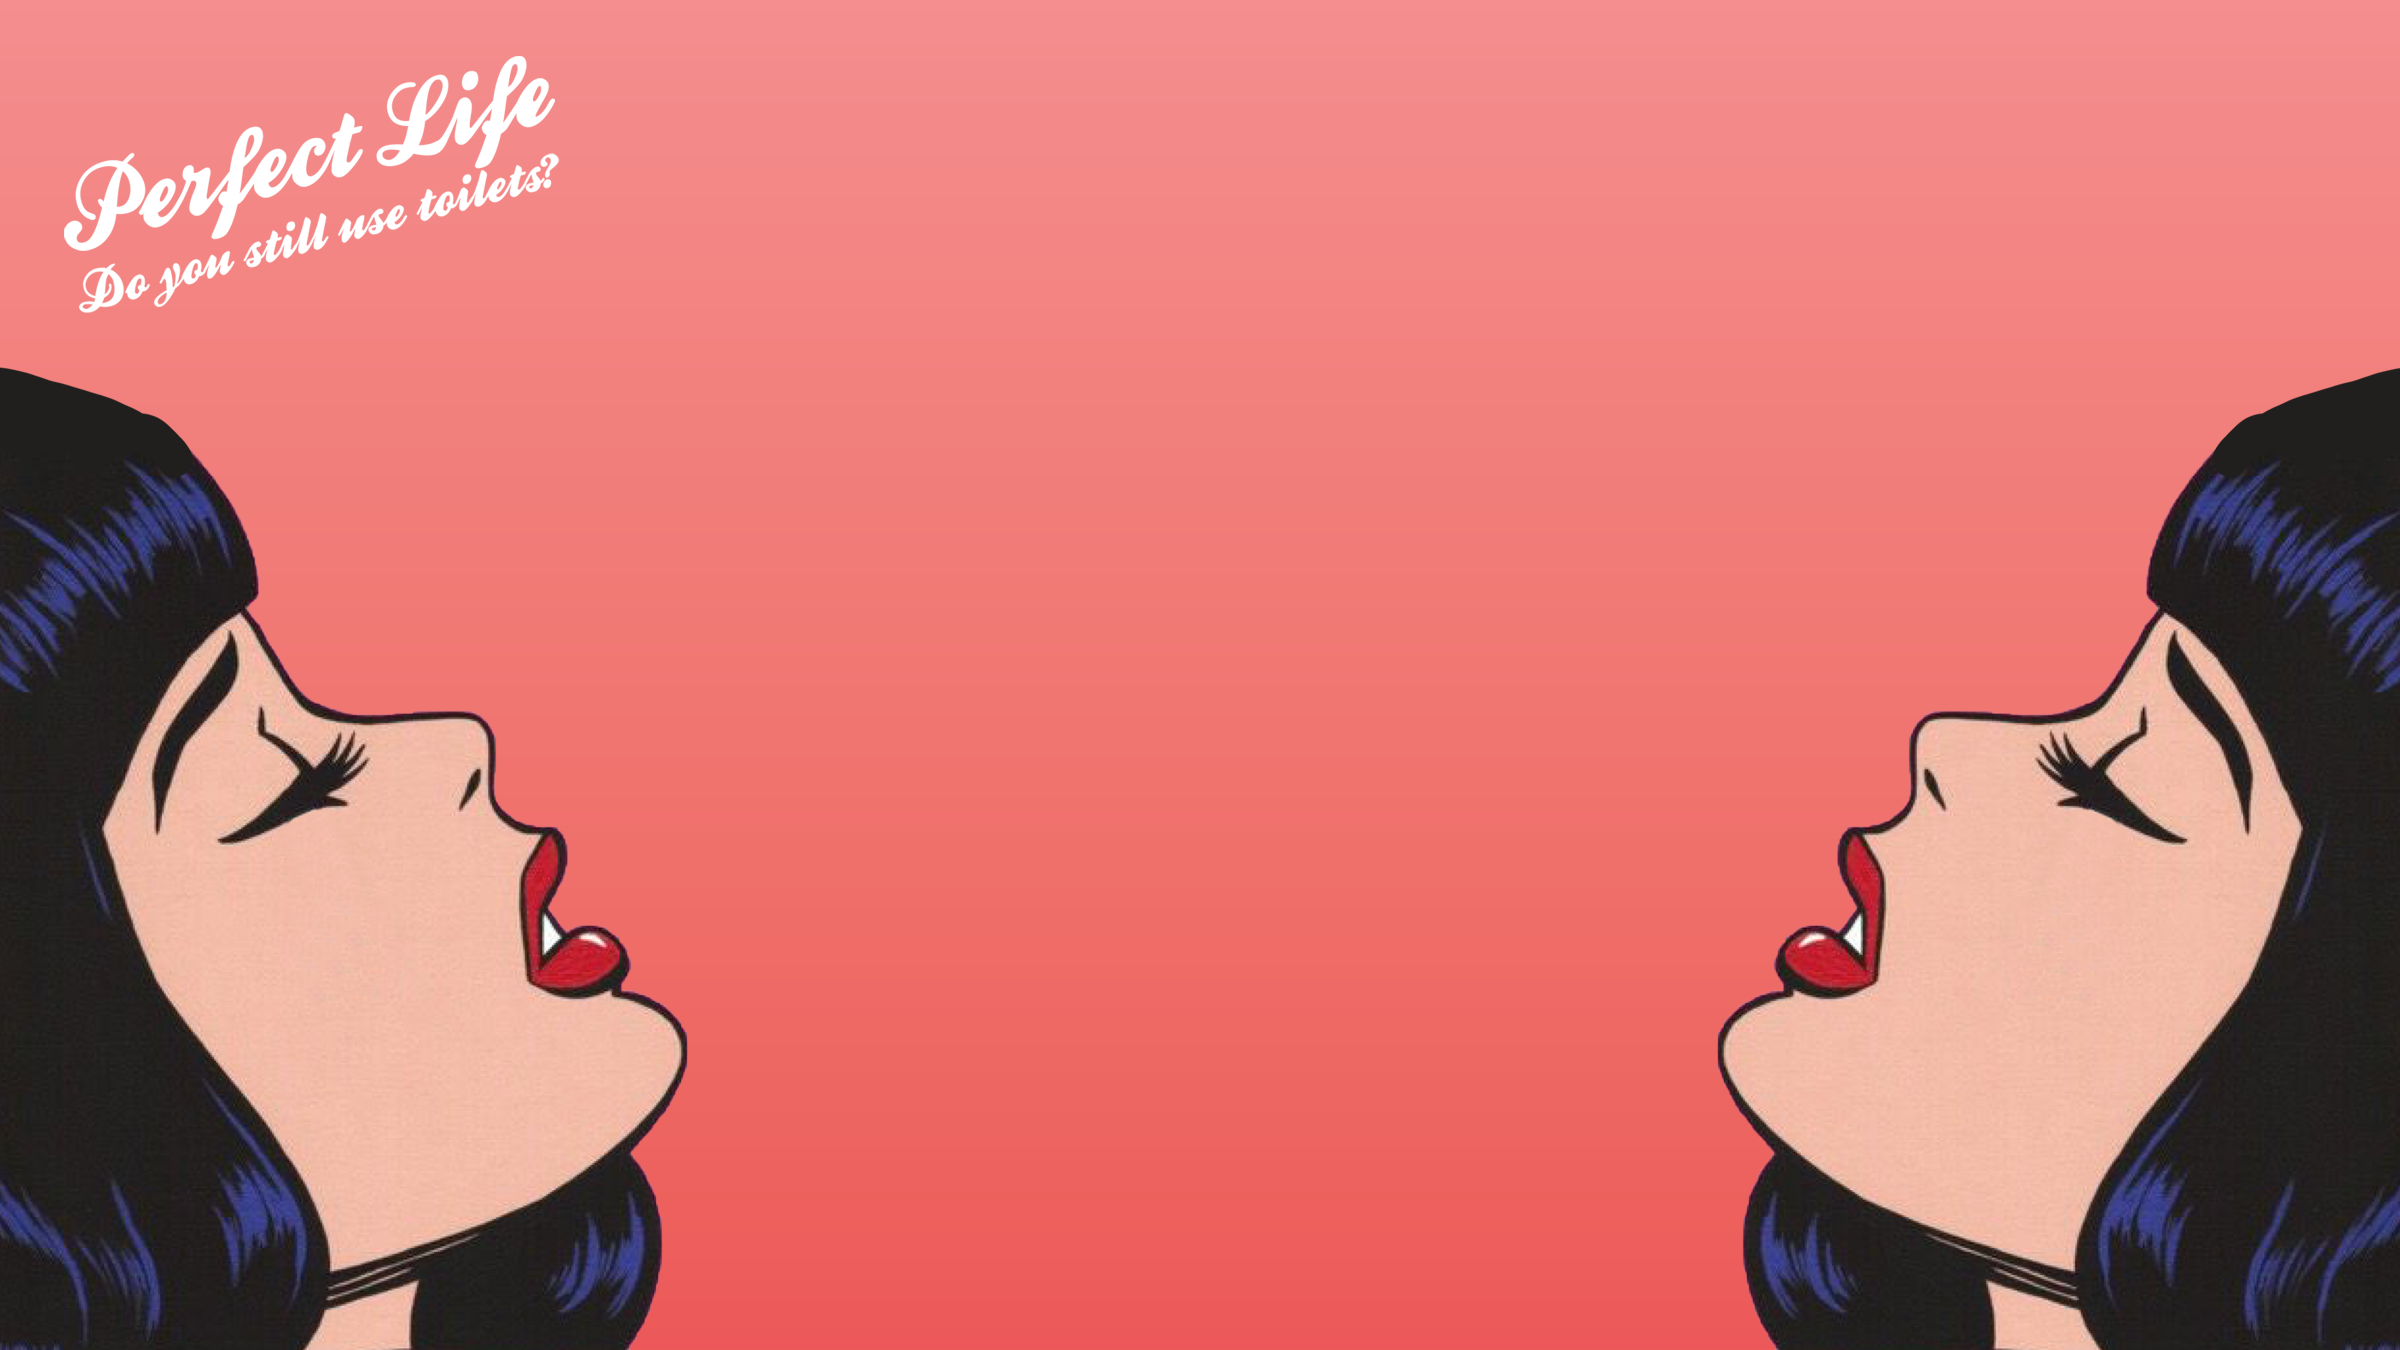
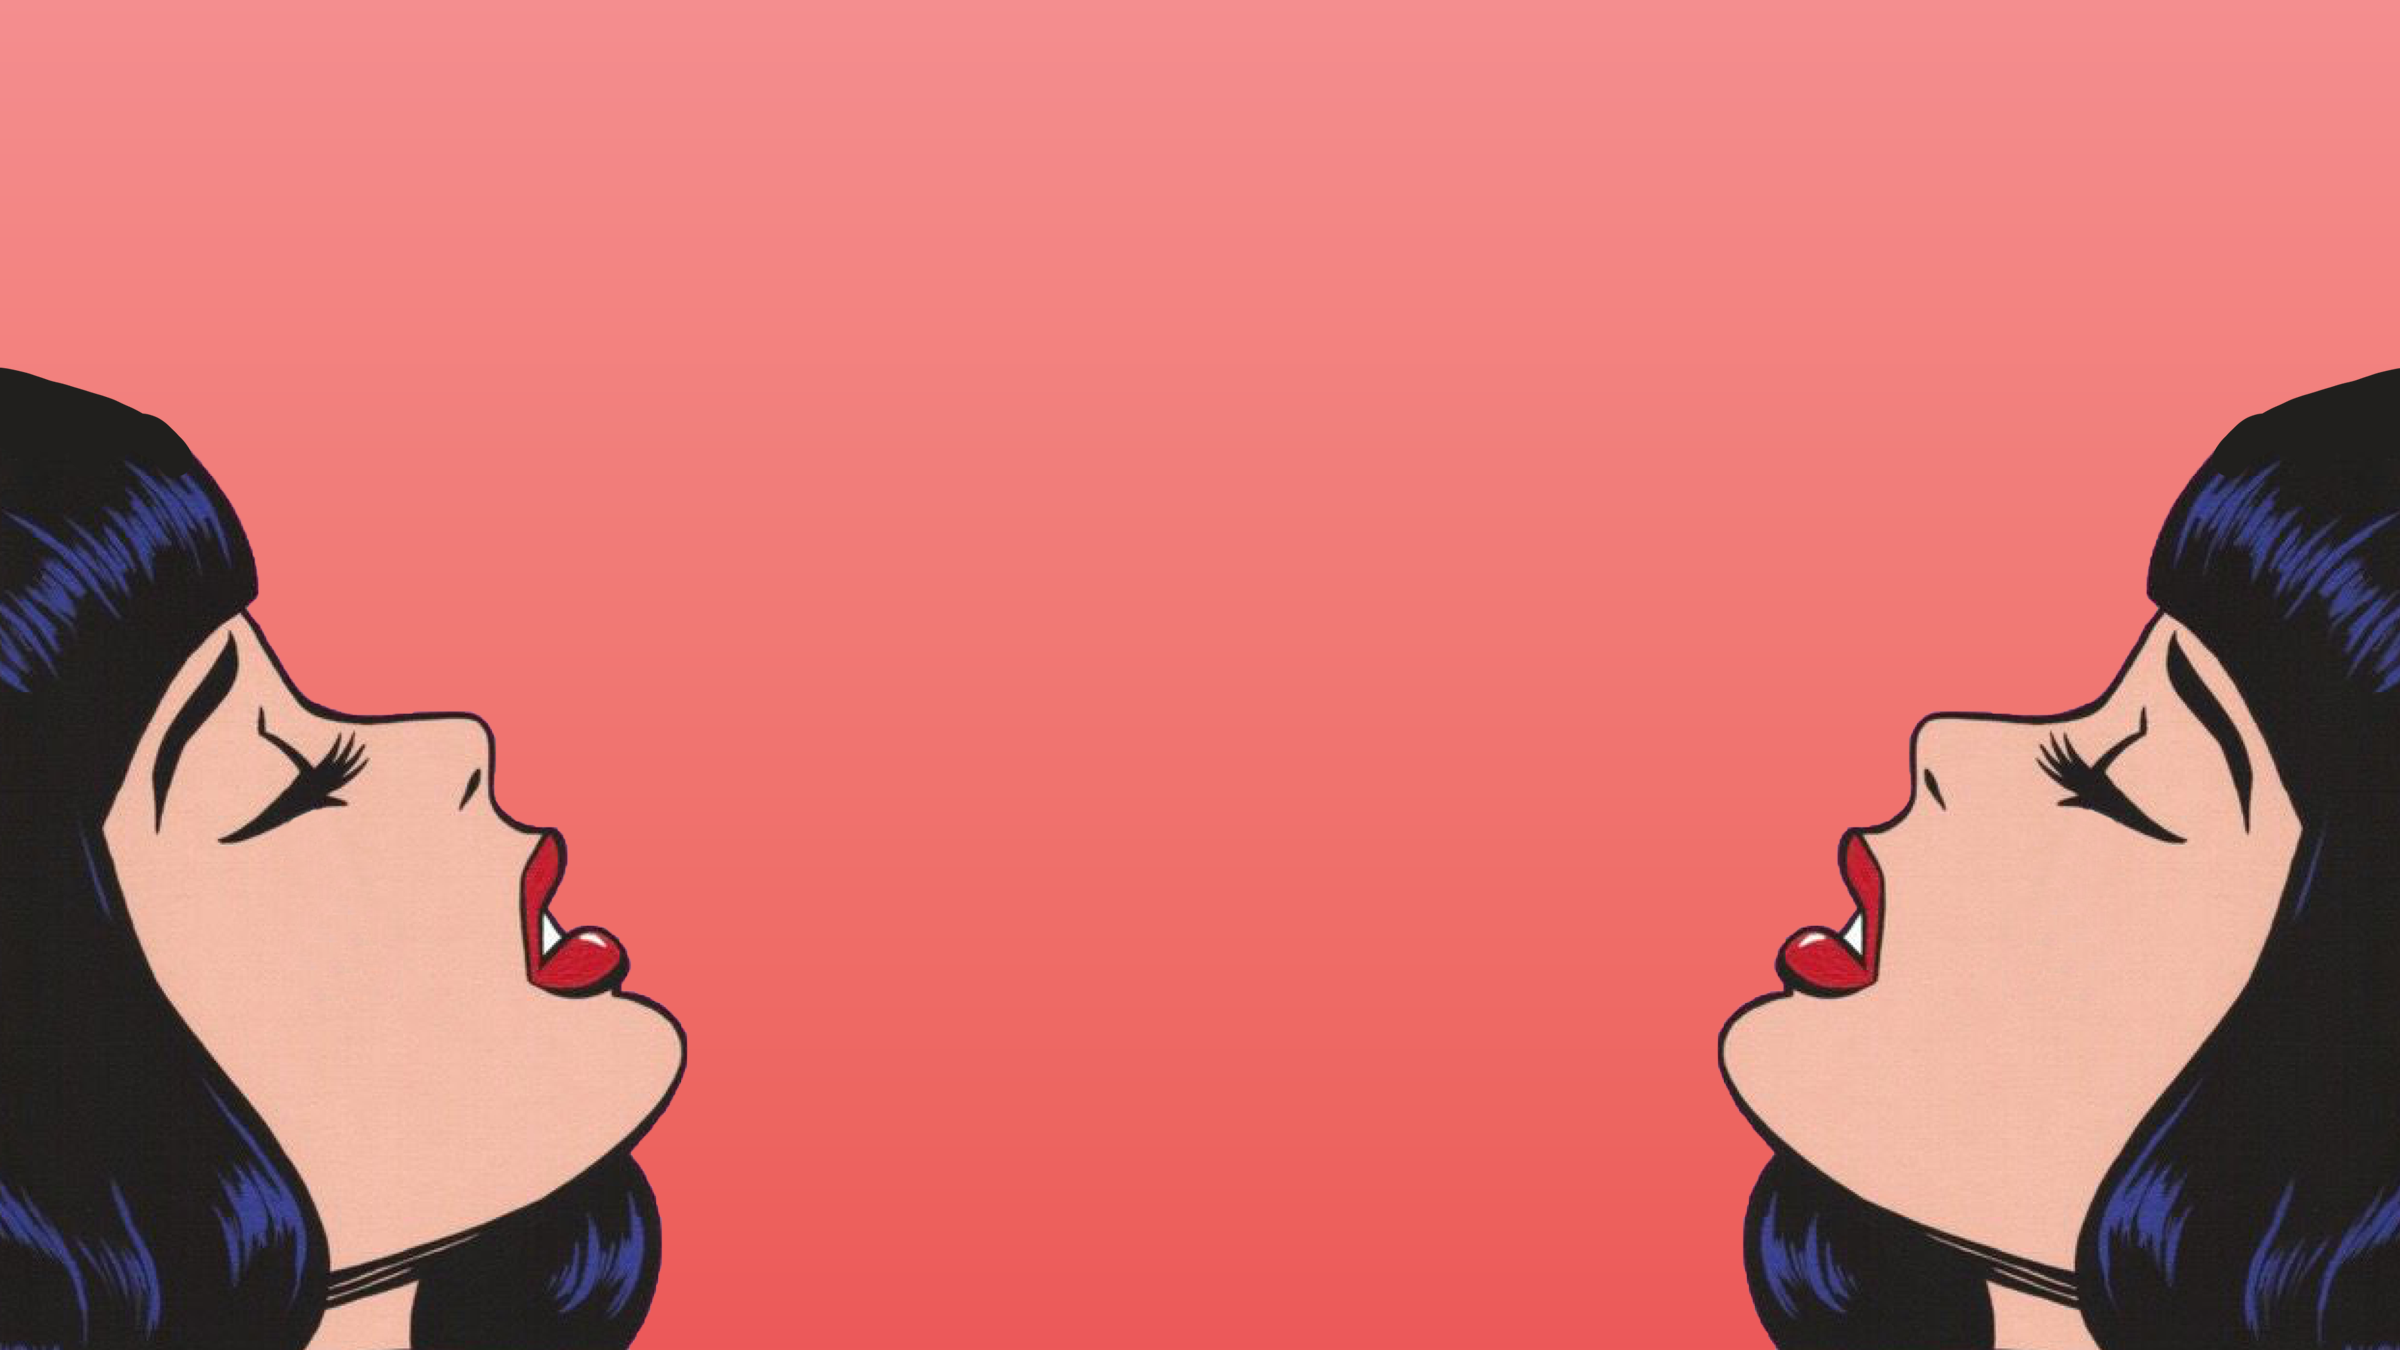
Update enemies, add winning function

Changed region(s): [[0.0312, 0.0311, 0.25, 0.2489]]

diff --git a/js/main.js b/js/main.js
@@ -6,7 +6,7 @@ var start;
 var gameState;
 var gameInitialize;
 var gameOverMenu;
-var speedMonster = 0.6;
+var speedMonster = 0.5;
 var usedKeys = [
     37,
     39,
@@ -22,100 +22,51 @@ var hero = {
 
 var missiles =  [];
 var enemies = [
-    { left: 550, top: 50 },
-    { left: 450, top: 55 },
-    { left: 520, top: 63 },
-    { left: 503, top: 68 },
-    { left: 700, top: 72 },
-    { left: 610, top: 72 },
-    { left: 688, top: 84 },
-    { left: 315, top: 84 },
-    { left: 650, top: 91 },
-    { left: 520, top: 122 },
-    { left: 750, top: 105 },
-    { left: 700, top: 110 },
-    { left: 810, top: 125 },
-    { left: 788, top: 112 },
-    { left: 800, top: 105 },
-    { left: 300, top: 180 },
-    { left: 400, top: 178 },
+    { left: 550, top: -12 },
+    { left: 450, top: -20 },
+    { left: 520, top: -8 },
+    { left: 503, top: -33 },
+    { left: 700, top: -17 },
+    { left: 610, top: -9 },
+    { left: 688, top: -3 },
+    { left: 315, top: -22 },
+    { left: 650, top: -12 },
+    { left: 520, top: 22 },
+    { left: 750, top: 05 },
+    { left: 700, top: 10 },
+    { left: 810, top: 25 },
+    { left: 788, top: 12 },
+    { left: 800, top: 05 },
+    { left: 300, top: 80 },
+    { left: 400, top: 78 },
+    { left: 500, top: 75 },
+    { left: 600, top: 70 },
+    { left: 666, top: 65 },
+    { left: 835, top: 75 },
+    { left: 610, top: 180 },
+    { left: 225, top: 101 },
+    { left: 400, top: 163 },
+    { left: 430, top: 180 },
+    { left: 515, top: 144 },
+    { left: 650, top: 155 },
+    { left: 730, top: 157 },
+    { left: 830, top: 166 },
+    { left: 620, top: 170 },
+    { left: 932, top: 148 },
     { left: 500, top: 175 },
     { left: 600, top: 170 },
     { left: 666, top: 165 },
     { left: 835, top: 175 },
-    { left: 610, top: 180 },
-    { left: 225, top: 201 },
-    { left: 400, top: 263 },
-    { left: 430, top: 280 },
-    { left: 515, top: 244 },
-    { left: 650, top: 255 },
-    { left: 730, top: 257 },
-    { left: 830, top: 266 },
-    { left: 620, top: 270 },
-    { left: 932, top: 248 },
-
-    { left: 550, top: -100 },
-    { left: 450, top: -100 },
-    { left: 520, top: -100 },
-    { left: 503, top: -100 },
-    { left: 700, top: -100 },
-    { left: 610, top: -100 },
-    { left: 688, top: -100 },
-    { left: 315, top: -100 },
-    { left: 650, top: -100 },
-    { left: 520, top: -100 },
-    { left: 750, top: -100 },
-    { left: 700, top: -100 },
-    { left: 810, top: -100 },
-    { left: 788, top: -100 },
-    { left: 800, top: -100 },
-    { left: 300, top: -100 },
-    { left: 400, top: -100 },
-    { left: 500, top: -100 },
-    { left: 600, top: -100 },
-    { left: 666, top: -100 },
-    { left: 835, top: -120 },
-    { left: 610, top: -120 },
-    { left: 225, top: -120 },
-    { left: 400, top: -120 },
-    { left: 430, top: -120 },
-    { left: 515, top: -120 },
-    { left: 650, top: -120 },
-    { left: 730, top: -120 },
-    { left: 830, top: -120 },
-    { left: 620, top: -120 },
-    { left: 932, top: -120 },
-    { left: 550, top: -120 },
-    { left: 450, top: -120 },
-    { left: 520, top: -120 },
-    { left: 503, top: -140 },
-    { left: 700, top: -140 },
-    { left: 610, top: -140 },
-    { left: 688, top: -140 },
-    { left: 315, top: -140 },
-    { left: 650, top: -140 },
-    { left: 520, top: -140 },
-    { left: 750, top: -140 },
-    { left: 700, top: -140 },
-    { left: 810, top: -140 },
-    { left: 788, top: -140 },
-    { left: 800, top: -140 },
-    { left: 300, top: -140 },
-    { left: 400, top: -140 },
-    { left: 500, top: -140 },
-    { left: 600, top: -140 },
-    { left: 666, top: -140 },
-    { left: 835, top: -140 },
-    { left: 610, top: -140 },
-    { left: 225, top: -140 },
-    { left: 400, top: -140 },
-    { left: 430, top: -140 },
-    { left: 515, top: -140 },
-    { left: 650, top: -140 },
-    { left: 730, top: -140 },
-    { left: 830, top: -140 },
-    { left: 620, top: -140 },
-    { left: 932, top: -140 },
+    { left: 610, top: 150 },
+    { left: 225, top: 261 },
+    { left: 400, top: 173 },
+    { left: 430, top: 180 },
+    { left: 515, top: 134 },
+    { left: 650, top: 125 },
+    { left: 730, top: 277 },
+    { left: 830, top: 156 },
+    { left: 620, top: 180 },
+    { left: 932, top: 268 },
 ];
 var gameOverMenu;
 var showGame;
@@ -127,13 +78,10 @@ function play() {
 }
 
 function gameInitialize() {
-
     screenWidth = window.innerWidth;
     screenHeight = window.innerHeight;
-     
     gameOverMenu = document.getElementById("gameOver");
     centerMenuPosition(gameOverMenu);
-
     setState("PLAY");
 }
 
@@ -164,7 +112,8 @@ document.addEventListener('keydown', function (e) {
         drawMissiles();
     }
     if (currentKeys.includes(13) || (currentKeys.includes(37) && currentKeys.includes(39))) {
-        if (gameState === "GAME OVER") {
+        console.log(gameState);
+        if (gameState === "GAME OVER" || gameState == "WINNER") {
             window.location.reload();
         }
         else {
@@ -216,7 +165,6 @@ function moveEnemies() {
             clearTimeout(timer);
             enemies[enemy].top = 0;
         }
-        
     }
 }
 
@@ -231,7 +179,12 @@ function collisionDetection() {
             ) {
                 enemies.splice(enemy, 1);
                 missiles.splice(missile, 1);
-                
+
+                if (enemies.length < 1) {
+                    setState("WINNER");
+                    clearTimeout(timer);
+                    showMenu();
+                }
             }
         }
     }
@@ -253,6 +206,8 @@ function hideMenu(menu) {
 function showMenu() {
     if (gameState == "GAME OVER")
         displayMenu(gameOverMenu);
+    else if (gameState == "WINNER")
+        displayMenu(winnerMenu)
 }
 
 function centerMenuPosition(menu) {
@@ -261,13 +216,13 @@ function centerMenuPosition(menu) {
 }
 
 function hideEnemies(){
-    if (gameState == "GAME OVER")
-    document.getElementById('enemies').style.display = "none"
+    if (gameState == "GAME OVER" || gameState == "WINNER")
+        document.getElementById('enemies').style.display = "none"
 }
 
 function hideHero(){
-    if (gameState == "GAME OVER")
-    document.getElementById('hero').style.display = "none"
+    if (gameState == "GAME OVER" || gameState == "WINNER")
+        document.getElementById('hero').style.display = "none"
 }
 
 function gameLoop() {

diff --git a/index.html b/index.html
@@ -17,17 +17,21 @@
     
     <body>
         <div id="background">
+            <img src="css/assets/logo.png" alt="Perfect Life" class="logo">
             <div id="hero"></div>
             <div id="missiles"></div>
             <div id="enemies"></div>
             <img src="css/assets/startgame.png" alt="Start the game" id="start">
 
-                <section id="gameOver">
-                    <img src="gameovertitle.gif" style="max-width: 200px;"></span>
-                    <img src="gameovertext.png" id="gameovertext"></span>
-            
-                </section></div>
-            </div>                       
+            <section id="gameOver">
+                <img src="gameovertitle.gif" style="max-width: 200px;"></span>
+                <img src="gameovertext.png" id="gameovertext"></span>
+            </section>
+
+            <section id="winnerMenu">
+                <img src="winner.png" id="gameovertext"></span>
+            </section>
+        </div>                       
 </body>
 <script src="js/main.js"></script>
 </html>

diff --git a/css/main.css b/css/main.css
@@ -110,6 +110,8 @@ a {
     z-index: 9;
     display: block;
     margin: 0 auto;
+    max-height: 500px;
+    top: 80px;
 }
 
 #hero {
@@ -187,6 +189,15 @@ a {
     justify-content: center;
 }
 
+#winnerMenu {
+    background: transparent;
+    visibility: hidden;
+    display: flex;
+    flex-direction: column;
+    align-items: center;
+    justify-content: center;
+}
+
 #gameovertext {
     position: relative;
     height: 400px;
@@ -239,3 +250,10 @@ a {
     margin: 2;
     z-index: 3;
 } 
+
+.logo {
+    position: absolute;
+    top: 20px;
+    left: 20px;
+    max-width: 250px;
+}
